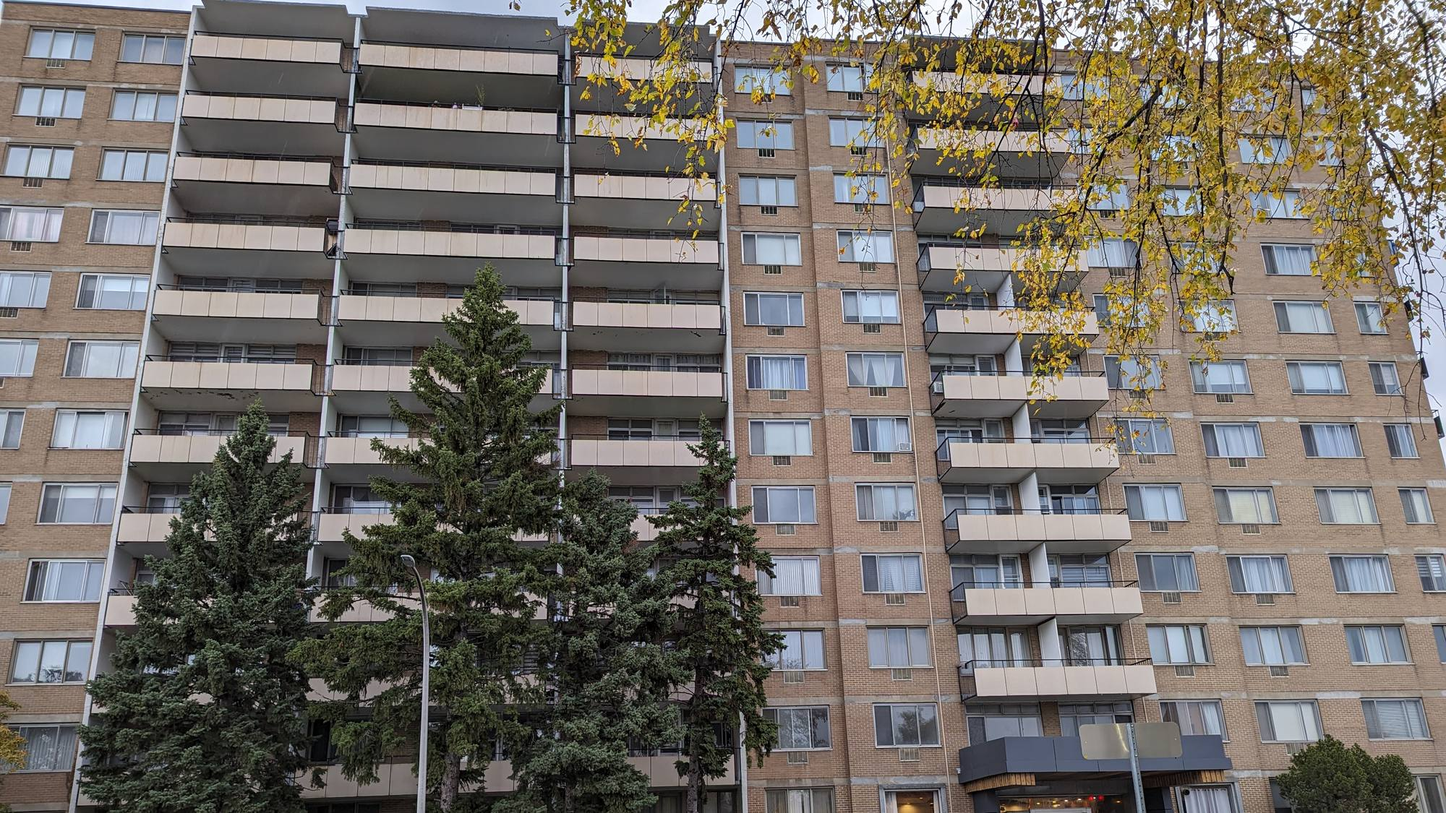
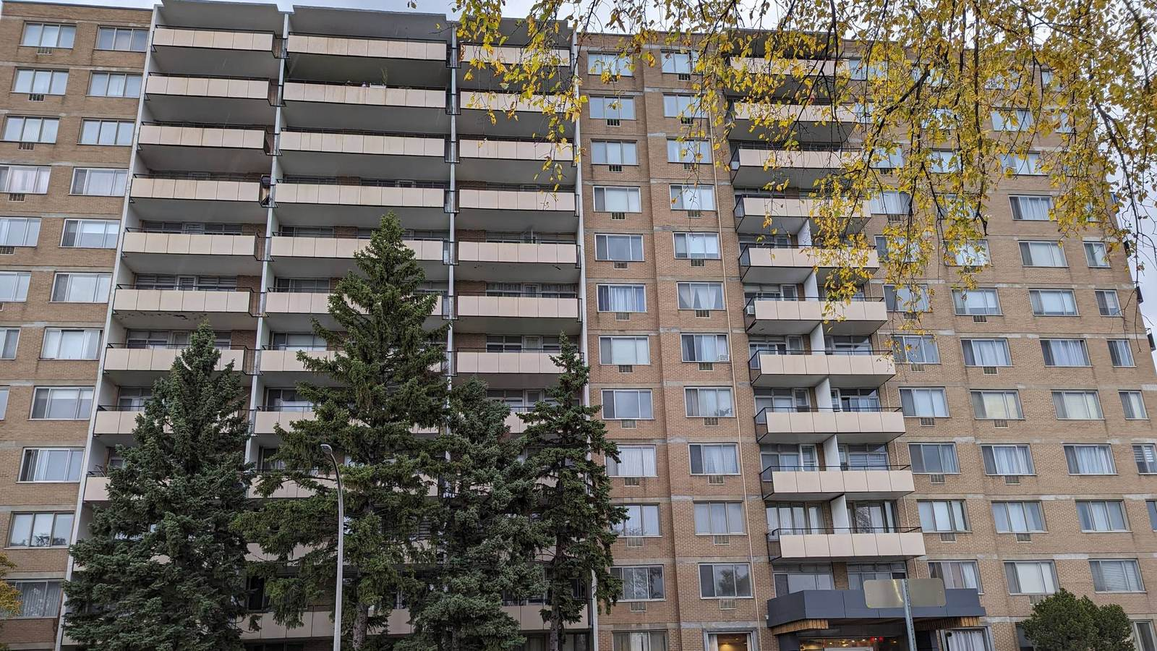
SEO pass: search titles under 62 characters, descriptions under 160, lighter hero photos
Category pages get explicit search titles instead of a truncated heading.
Hero photos resized to 1600 px and recompressed, preloaded per page, and used
as the share image.

Claude-Session: https://claude.ai/code/session_013K8RPvCHuQPfPabwu3w8jg

diff --git a/content.py b/content.py
@@ -747,29 +747,29 @@ PAGES = [
      "content": {"h1": "Request received. Thank you.", "lead": "An engineer will get back to you within 24 business hours with a fixed price confirmed in writing.",
                  "body": "<p>If your situation is urgent (dangerous condition, falling material, notice from the City or the RBQ), call us directly at <a href='tel:+15149652842'>514-965-2842</a>.</p><p>In the meantime, gather if you can: the year of construction, the last verification report and the building’s maintenance register. It speeds up the quote.</p>"}},
     {"key": "index", "lang": "fr", "type": "home",
-     "title": "Inspection de façades et de stationnements Loi 122 à Montréal | GNS Inspect",
-     "meta": "Firme d’ingénierie spécialisée dans les vérifications de façades (5 étages et +) et de stationnements étagés exigées par la Loi 122. Rapport signé par un ingénieur, soumission en 24 h.",
+     "title": "Inspection de façades et stationnements Loi 122 | GNS Inspect",
+     "meta": "Vérifications de façades (5 étages et +) et de stationnements étagés exigées par la Loi 122 à Montréal. Rapport signé par un ingénieur, soumission en 24 h.",
      "content": FR_HOME},
     {"key": "index", "lang": "en", "type": "home",
-     "title": "Bill 122 Façade and Parking Garage Inspections in Montréal | GNS Inspect",
+     "title": "Bill 122 Façade and Parking Inspections Montréal | GNS Inspect",
      "meta": "Engineering firm specialized in the façade (5+ storeys) and multi-level parking verifications required by Bill 122. Engineer-signed report, quote within 24 h.",
      "content": EN_HOME},
 
     {"key": "facades", "lang": "fr", "type": "service",
-     "title": "Inspection de façades Loi 122 à Montréal | Ingénieur GNS Inspect",
-     "meta": "Vérification quinquennale des façades de 5 étages et plus, rapport signé par un ingénieur conforme au chapitre Bâtiment du Code de sécurité. Soumission en 24 h.",
+     "title": "Inspection de façades Loi 122 à Montréal | GNS Inspect",
+     "meta": "Vérification quinquennale des façades de 5 étages et plus à Montréal. Rapport d’ingénieur conforme au Code de sécurité (Loi 122). Soumission en 24 h.",
      "service_name": "Inspection de façades Loi 122", "faq": FR_FACADES_FAQ, "content": FR_FACADES},
     {"key": "facades", "lang": "en", "type": "service",
-     "title": "Bill 122 Façade Inspection Montréal | GNS Inspect Engineers",
+     "title": "Bill 122 Façade Inspection in Montréal | GNS Inspect",
      "meta": "Five-year verification of façades on buildings of 5+ storeys, engineer-signed report compliant with Québec’s Safety Code. Quote within 24 h.",
      "service_name": "Bill 122 Façade Inspection", "faq": EN_FACADES_FAQ, "content": EN_FACADES},
 
     {"key": "stationnements", "lang": "fr", "type": "service",
-     "title": "Inspection de stationnement étagé Loi 122 à Montréal | GNS Inspect",
+     "title": "Inspection de stationnement Loi 122 à Montréal | GNS Inspect",
      "meta": "Vérification annuelle et vérification approfondie quinquennale de votre stationnement souterrain ou aérien par un ingénieur. Rapport conforme à la RBQ.",
      "service_name": "Inspection de stationnement étagé Loi 122", "faq": FR_STAT_FAQ, "content": FR_STAT},
     {"key": "stationnements", "lang": "en", "type": "service",
-     "title": "Bill 122 Parking Garage Inspection Montréal | GNS Inspect Engineers",
+     "title": "Bill 122 Parking Garage Inspection Montréal | GNS Inspect",
      "meta": "Annual check and five-year in-depth engineer verification of your underground or above-grade parking structure. RBQ-compliant report.",
      "service_name": "Bill 122 Parking Garage Inspection", "faq": EN_STAT_FAQ, "content": EN_STAT},
 
@@ -784,18 +784,18 @@ PAGES = [
 
     {"key": "mli", "lang": "fr", "type": "service",
      "title": "Audit énergétique APH Select (SCHL) à Montréal | GNS Inspect",
-     "meta": "Audit, modélisation et rapport énergétique pour le programme APH Select (MLI Select) de la SCHL : immeubles multilogements existants et neufs. Signé par un ingénieur.",
+     "meta": "Audit, modélisation et rapport énergétique pour APH Select (MLI Select) de la SCHL : multilogements existants et neufs. Signé par un ingénieur.",
      "service_name": "Audit énergétique APH Select (SCHL)", "faq": FR_MLI_FAQ, "content": FR_MLI},
     {"key": "mli", "lang": "en", "type": "service",
      "title": "MLI Select Energy Audit (CMHC) in Montréal | GNS Inspect",
      "meta": "Energy audit, modelling and report for CMHC’s MLI Select program: existing and new multi-unit rental buildings. Signed by an engineer.",
      "service_name": "MLI Select energy audit (CMHC)", "faq": EN_MLI_FAQ, "content": EN_MLI},
     {"key": "divulgation", "lang": "fr", "type": "service",
-     "title": "Divulgation énergie et GES, Règlement 21-042 Montréal | GNS Inspect",
-     "meta": "Bâtiments de 2 000 m² et plus ou de 25 logements et plus à Montréal : nous préparons et déposons votre divulgation annuelle de consommation d’énergie avant le 30 juin.",
+     "title": "Divulgation énergie et GES Montréal (21-042) | GNS Inspect",
+     "meta": "Bâtiments de 2 000 m² et plus ou de 25 logements et plus à Montréal : nous préparons et déposons votre divulgation énergétique annuelle avant le 30 juin.",
      "service_name": "Divulgation annuelle énergie et GES (Règlement 21-042)", "faq": FR_DIVULG_FAQ, "content": FR_DIVULG},
     {"key": "divulgation", "lang": "en", "type": "service",
-     "title": "Energy and GHG Disclosure, Montréal By-law 21-042 | GNS Inspect",
+     "title": "Montréal Energy and GHG Disclosure (21-042) | GNS Inspect",
      "meta": "Montréal buildings of 2,000 m² or more, or 25+ dwellings: we prepare and file your annual energy consumption disclosure before June 30.",
      "service_name": "Annual energy and GHG disclosure (By-law 21-042)", "faq": EN_DIVULG_FAQ, "content": EN_DIVULG},
 
@@ -809,7 +809,7 @@ PAGES = [
      "service_name": "Reserve fund study (Bill 16)", "faq": EN_FONDS_FAQ, "content": EN_FONDS},
     {"key": "carnet", "lang": "fr", "type": "service",
      "title": "Carnet d’entretien de copropriété (Loi 16) | GNS Inspect",
-     "meta": "Carnet d’entretien de copropriété établi par des ingénieurs : inventaire, état des composantes et calendrier de 25 ans. Obligatoire pour tous les syndicats d’ici août 2028.",
+     "meta": "Carnet d’entretien de copropriété établi par des ingénieurs : inventaire, état des composantes et calendrier de 25 ans. Obligatoire d’ici août 2028.",
      "service_name": "Carnet d’entretien de copropriété (Loi 16)", "faq": FR_CARNET_FAQ, "content": FR_CARNET},
     {"key": "carnet", "lang": "en", "type": "service",
      "title": "Condominium Maintenance Log (Bill 16) | GNS Inspect",
@@ -817,8 +817,8 @@ PAGES = [
      "service_name": "Condominium maintenance log (Bill 16)", "faq": EN_CARNET_FAQ, "content": EN_CARNET},
 
     {"key": "valeur", "lang": "fr", "type": "service",
-     "title": "Valeur de reconstruction de copropriété pour l’assurance | GNS Inspect",
-     "meta": "Évaluation du coût de reconstruction de votre copropriété, obligatoire tous les 5 ans : relevé technique par des ingénieurs et rapport signé par un évaluateur agréé.",
+     "title": "Valeur de reconstruction de copropriété | GNS Inspect",
+     "meta": "Coût de reconstruction de votre copropriété, obligatoire tous les 5 ans : relevé technique par des ingénieurs, rapport signé par un évaluateur agréé.",
      "service_name": "Évaluation de la valeur de reconstruction (copropriété)", "faq": FR_VALEUR_FAQ, "content": FR_VALEUR},
     {"key": "valeur", "lang": "en", "type": "service",
      "title": "Condominium Reconstruction Value Appraisal | GNS Inspect",
@@ -835,11 +835,11 @@ PAGES = [
 
     {"key": "services", "lang": "fr", "type": "hub",
      "title": "Services d’ingénierie du bâtiment à Montréal | GNS Inspect",
-     "meta": "Inspections pré-achat et pour financement, expertise structurale, plans de structure et de CVAC, évaluations environnementales Phase I-II-III, fonds de prévoyance. Équipe d’ingénieurs OIQ, Montréal.",
+     "meta": "Inspections pré-achat, expertise, structure, CVAC, évaluations environnementales Phase I-II-III, copropriété et énergie. Équipe d’ingénieurs à Montréal.",
      "content": {"crumb": "Services d’ingénierie", "h1": "Une suite complète de services d’ingénierie du bâtiment", "lead": "Inspections, expertise, structure, mécanique du bâtiment, environnement et copropriété : une seule équipe d’ingénieurs, de l’inspection jusqu’à la surveillance des travaux."}},
     {"key": "services", "lang": "en", "type": "hub",
      "title": "Building Engineering Services in Montréal | GNS Inspect",
-     "meta": "Pre-purchase and financing inspections, structural expertise, structural and HVAC design, Phase I-II-III environmental assessments, reserve fund studies. OIQ engineering team, Montréal.",
+     "meta": "Pre-purchase inspections, expert reports, structural and HVAC design, Phase I-II-III environmental assessments, condo and energy studies. Montréal engineers.",
      "content": {"crumb": "Engineering services", "h1": "A full suite of building engineering services", "lead": "Inspections, expertise, structural, building mechanical, environmental and condominium services: one engineering team, from inspection through construction oversight."}},
 
     {"key": "contact", "lang": "fr", "type": "simple",
@@ -970,7 +970,7 @@ CATEGORIES = [
                       ("Qualité de l’eau", "Eau potable et eau d’infiltration : prélèvements et interprétation des résultats."),
                       ("Pyrite et ocre ferreuse", "Carottage et échantillonnage de la dalle et du remblai, analyse en laboratoire, solutions de correction."),
                       ("Sols et eau souterraine", "Échantillonnage dans le cadre d’une évaluation environnementale Phase II.")],
-            "meta": "Tests de moisissures, radon, amiante, qualité de l’air et de l’eau, pyrite et ocre ferreuse à Montréal. Prélèvements, analyses en laboratoire et rapport d’ingénieur."},
+            "meta": "Tests de moisissures, radon, amiante, qualité de l’air et de l’eau, pyrite et ocre ferreuse à Montréal. Analyses en laboratoire et rapport d’ingénieur."},
      "en": {"title": "Testing: mould, radon, asbestos", "card": "Mould, radon, asbestos, air and water quality, pyrite and iron ochre: sampling, laboratory analysis and an engineer’s report.",
             "h1": "Mould, radon, asbestos and air quality testing",
             "lead": "A persistent odour, water damage, an upcoming purchase or work to plan: we take the samples, have them analysed in a laboratory and give you a report that explains the results, their cause and the fix. We test and we report: we sell no decontamination work, so we have no interest in finding any.",
@@ -1046,7 +1046,7 @@ CATEGORIES = [
                       ("Suivi et mesurage", "Plan de mesurage et vérification, rapports de performance exigés par les programmes."),
                       ("Solaire et BIPV", "Analyse de production, autoproduction et mesurage net avec Hydro-Québec, structure de support."),
                       ("Surveillance des travaux", "Conformité aux plans et aux conditions des subventions.")],
-            "meta": "Partenaire du programme Solutions efficaces d’Hydro-Québec à Montréal : études d’efficacité énergétique subventionnées, conception CVAC et enveloppe, aide financière pour bâtiments commerciaux et multilogements."},
+            "meta": "Partenaire du programme Solutions efficaces d’Hydro-Québec : études énergétiques subventionnées et aide financière pour bâtiments commerciaux et multilogements."},
      "en": {"title": "Energy efficiency · Solutions efficaces", "card": "Partner in Hydro-Québec’s Solutions efficaces program: subsidized energy-efficiency studies and projects for commercial and multi-unit buildings.",
             "h1": "Energy efficiency: partner in Hydro-Québec’s Solutions efficaces program",
             "lead": "GNS Inspect is a partner in Hydro-Québec’s Solutions efficaces program. We prepare and file your financial-assistance applications for commercial, institutional and multi-unit buildings: the energy analysis can be reimbursed up to $50,000 ($60,000 when it also covers demand response), and the selected measures partly funded by Hydro-Québec.",
@@ -1057,12 +1057,24 @@ CATEGORIES = [
                       ("Measurement and follow-up", "Measurement and verification plan, performance reports required by the programs."),
                       ("Solar and BIPV", "Production analysis, self-generation and net metering with Hydro-Québec, support structure."),
                       ("Construction oversight", "Compliance with drawings and subsidy conditions.")],
-            "meta": "Partner in Hydro-Québec’s Solutions efficaces program, Montréal: subsidized energy-efficiency studies, HVAC and envelope design, financial assistance for commercial and multi-unit buildings."}},
+            "meta": "Partner in Hydro-Québec’s Solutions efficaces program: subsidized energy studies and financial assistance for commercial and multi-unit buildings."}},
 ]
+
+# Search-result titles for the category pages (kept under ~60 characters)
+SEO_TITLES = {
+    "inspections-immeubles": {"fr": "Inspection d’immeuble pré-achat à Montréal", "en": "Pre-Purchase Building Inspection in Montréal"},
+    "expertise": {"fr": "Expertise vices cachés et infiltration d’eau", "en": "Latent Defect and Water Infiltration Experts"},
+    "structure": {"fr": "Ingénieur en structure à Montréal", "en": "Structural Engineer in Montréal"},
+    "mecanique": {"fr": "Ingénieur mécanique du bâtiment, plans CVAC", "en": "Building Mechanical Engineer, HVAC Design"},
+    "tests": {"fr": "Test de moisissures, radon et amiante Montréal", "en": "Mould, Radon and Asbestos Testing Montréal"},
+    "environnement": {"fr": "Évaluation environnementale Phase 1 et 2", "en": "Phase 1 and 2 Environmental Site Assessment"},
+    "copropriete": {"fr": "Ingénieurs pour syndicats de copropriété, Loi 16", "en": "Engineers for Condo Syndicates (Bill 16)"},
+    "energie": {"fr": "Efficacité énergétique, partenaire Hydro-Québec", "en": "Energy Efficiency, Hydro-Québec Program Partner"},
+}
 
 # Register one page per category and language
 for _c in CATEGORIES:
     for _l in ("fr", "en"):
         PAGES.append({"key": _c["key"], "lang": _l, "type": "category",
-                      "title": _c[_l]["h1"][:60].rsplit(" ", 1)[0] + " | GNS Inspect",
+                      "title": SEO_TITLES[_c["key"]][_l] + " | GNS Inspect",
                       "meta": _c[_l]["meta"], "service_name": _c[_l]["title"], "content": _c[_l], "slug": _c["slug"][_l]})

diff --git a/build.py b/build.py
@@ -90,6 +90,7 @@ def head(p):
 <link rel="icon" href="{PREFIX}/assets/img/favicon-48.png" sizes="48x48">
 <link rel="apple-touch-icon" href="{PREFIX}/assets/img/icon-192.png">
 <link rel="preconnect" href="https://fonts.googleapis.com">
+<link rel="preconnect" href="https://fonts.gstatic.com" crossorigin>
 <link href="https://fonts.googleapis.com/css2?family=Inter:wght@400;600;700;800;900&display=swap" rel="stylesheet">
 <link rel="stylesheet" href="{PREFIX}/assets/style.css">
 <script type="application/ld+json">{ld}</script>
@@ -552,6 +553,9 @@ def build():
         html = head(p) + topbar(p) + header(p) + RENDER[p["type"]](p) + footer(p)
         ph = photo_for(p["key"])
         if ph:
+            # share image and early fetch of the hero photo (largest element on the page)
+            html = html.replace(f"{SITE['domain']}/assets/img/icon-512.png", SITE['domain'] + ph[len(PREFIX):], 1)
+            html = html.replace('<link rel="stylesheet"', f'<link rel="preload" as="image" href="{ph}" fetchpriority="high">\n<link rel="stylesheet"', 1)
             for cls in ("hero", "page-hero"):
                 html = html.replace(f'<section class="{cls}">', f'<section class="{cls} has-photo" style="--photo:url({ph})">', 1)
         html = html.replace(" 000 $", "\u00a0000\u00a0$")  # keep dollar amounts on one line
